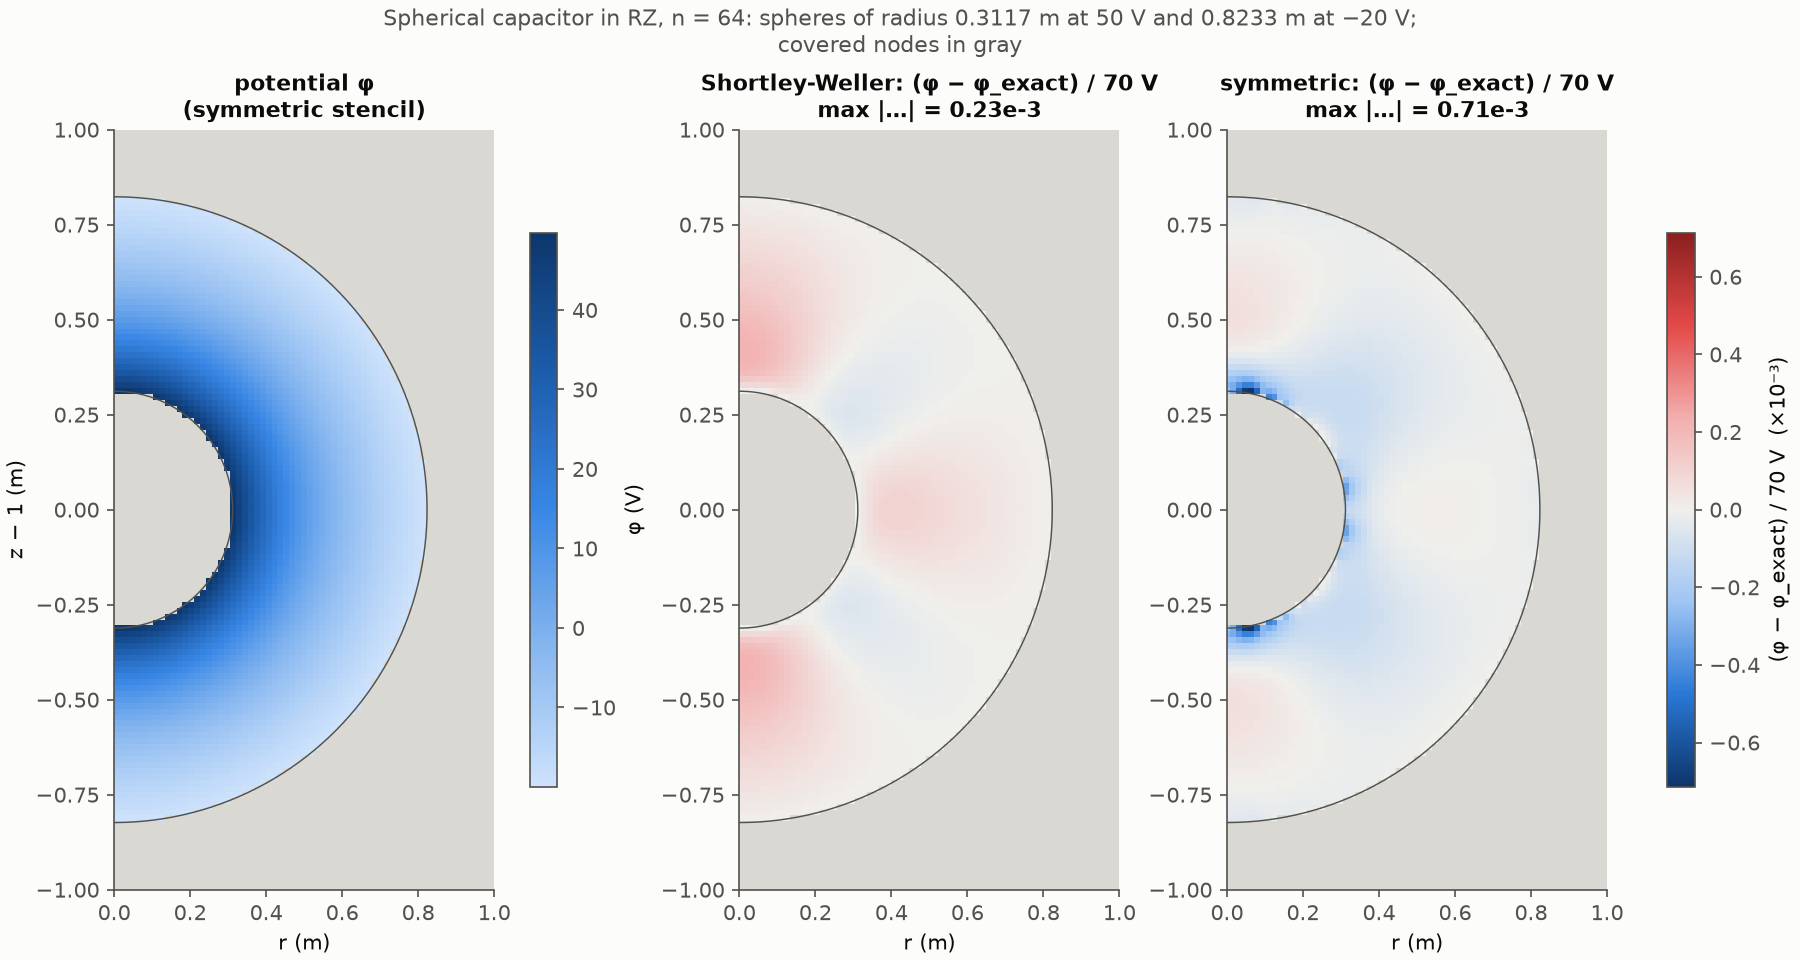
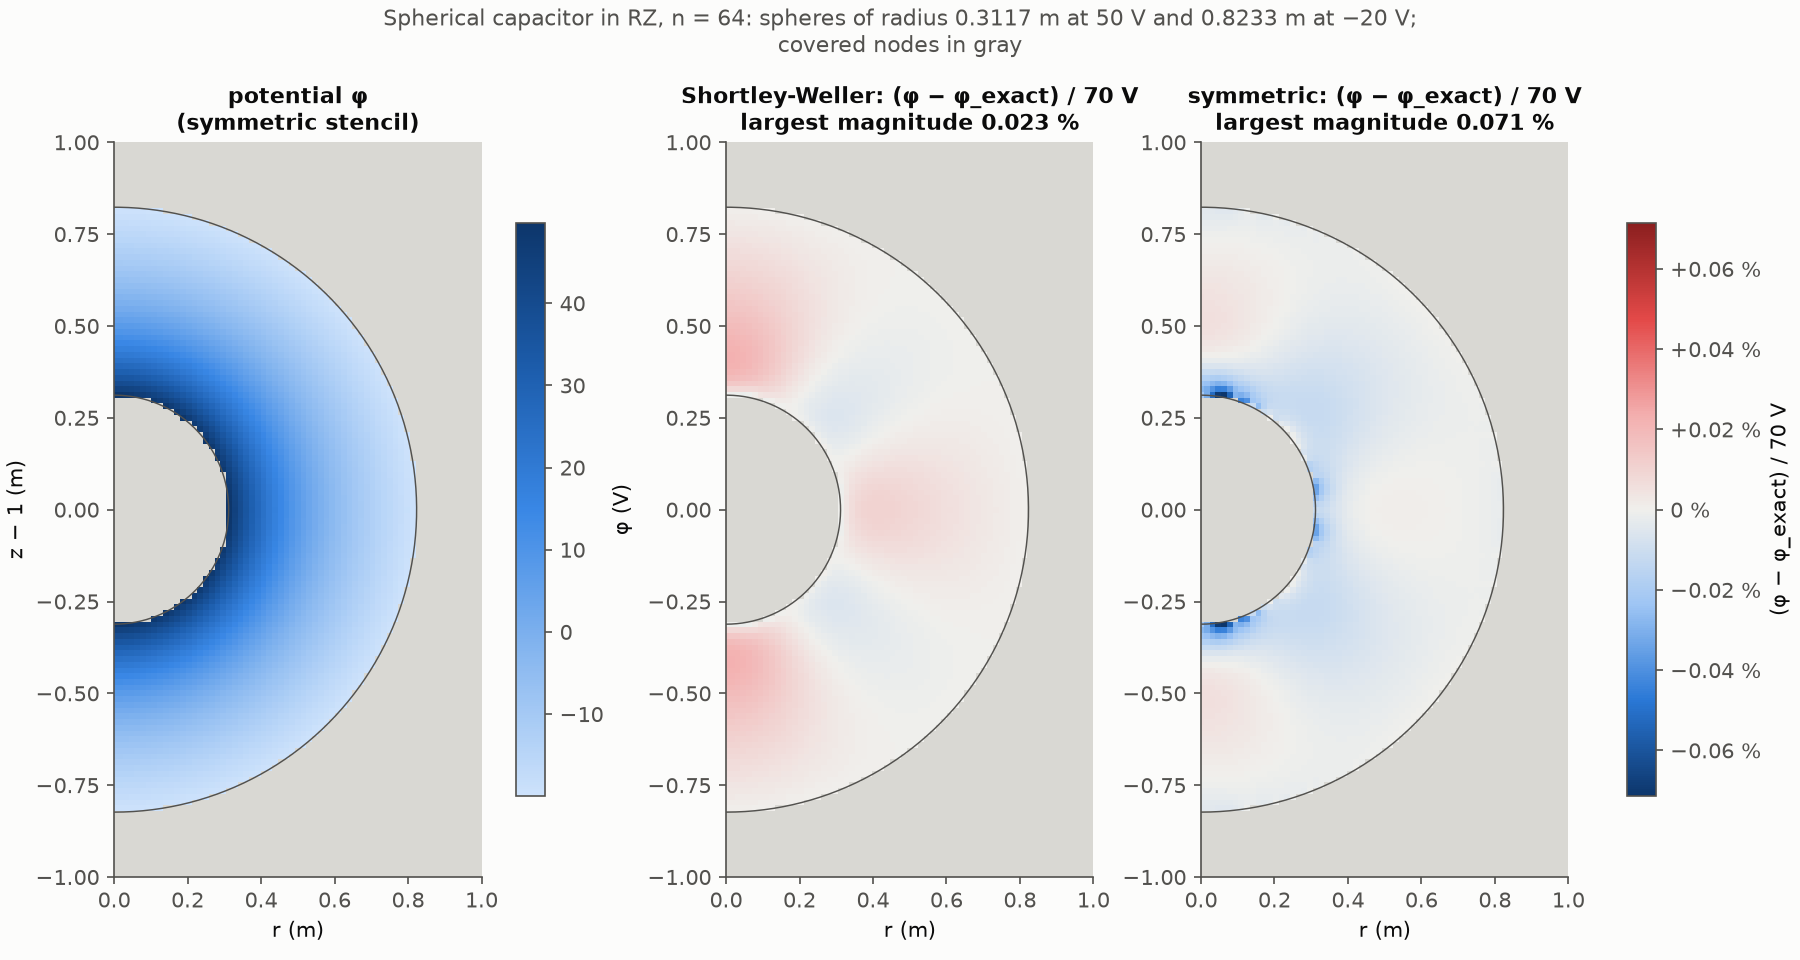
sphcap_rz_maps.png: colour bar ticks in percent of 70 V, no scale factor

diff --git a/figs.py b/figs.py
@@ -131,13 +131,15 @@ def fig_sphcap_maps():
     im = ax.pcolormesh(r, z, phi.T, cmap=SEQ, shading="nearest")
     fig.colorbar(im, ax=ax, shrink=0.7, label="φ (V)")
     ax.set_title("potential φ\n(symmetric stencil)")
-    lim = np.nanmax(np.abs(ey)) * 1e3
+    lim = np.nanmax(np.abs(ey)) * 100            # percent
     norm = TwoSlopeNorm(0.0, -lim, lim)
     for ax, e, name in ((axs[1], es, "Shortley-Weller"), (axs[2], ey, "symmetric")):
         ax.set_facecolor(COVERED)
-        im = ax.pcolormesh(r, z, (e * 1e3).T, cmap=DIV, norm=norm, shading="nearest")
-        ax.set_title(f"{name}: (φ − φ_exact) / 70 V\nmax |…| = {np.nanmax(np.abs(e)) * 1e3:.2f}e-3")
-    fig.colorbar(im, ax=axs[1:], shrink=0.7, label="(φ − φ_exact) / 70 V  (×10⁻³)")
+        im = ax.pcolormesh(r, z, (e * 100).T, cmap=DIV, norm=norm, shading="nearest")
+        ax.set_title(f"{name}: (φ − φ_exact) / 70 V\nlargest magnitude {np.nanmax(np.abs(e)) * 100:.3f} %")
+    cb = fig.colorbar(im, ax=axs[1:], shrink=0.7, label="(φ − φ_exact) / 70 V")
+    cb.set_ticks(np.linspace(-0.06, 0.06, 7))
+    cb.ax.set_yticklabels([f"{v:+.2f} %".replace("+0.00", "0").replace("-", "−") for v in np.linspace(-0.06, 0.06, 7)])
     for ax in axs:
         ax.set_aspect("equal"); ax.set_xlim(0, 1); ax.set_ylim(-1, 1)
         ax.set_xlabel("r (m)"); ax.grid(False)
